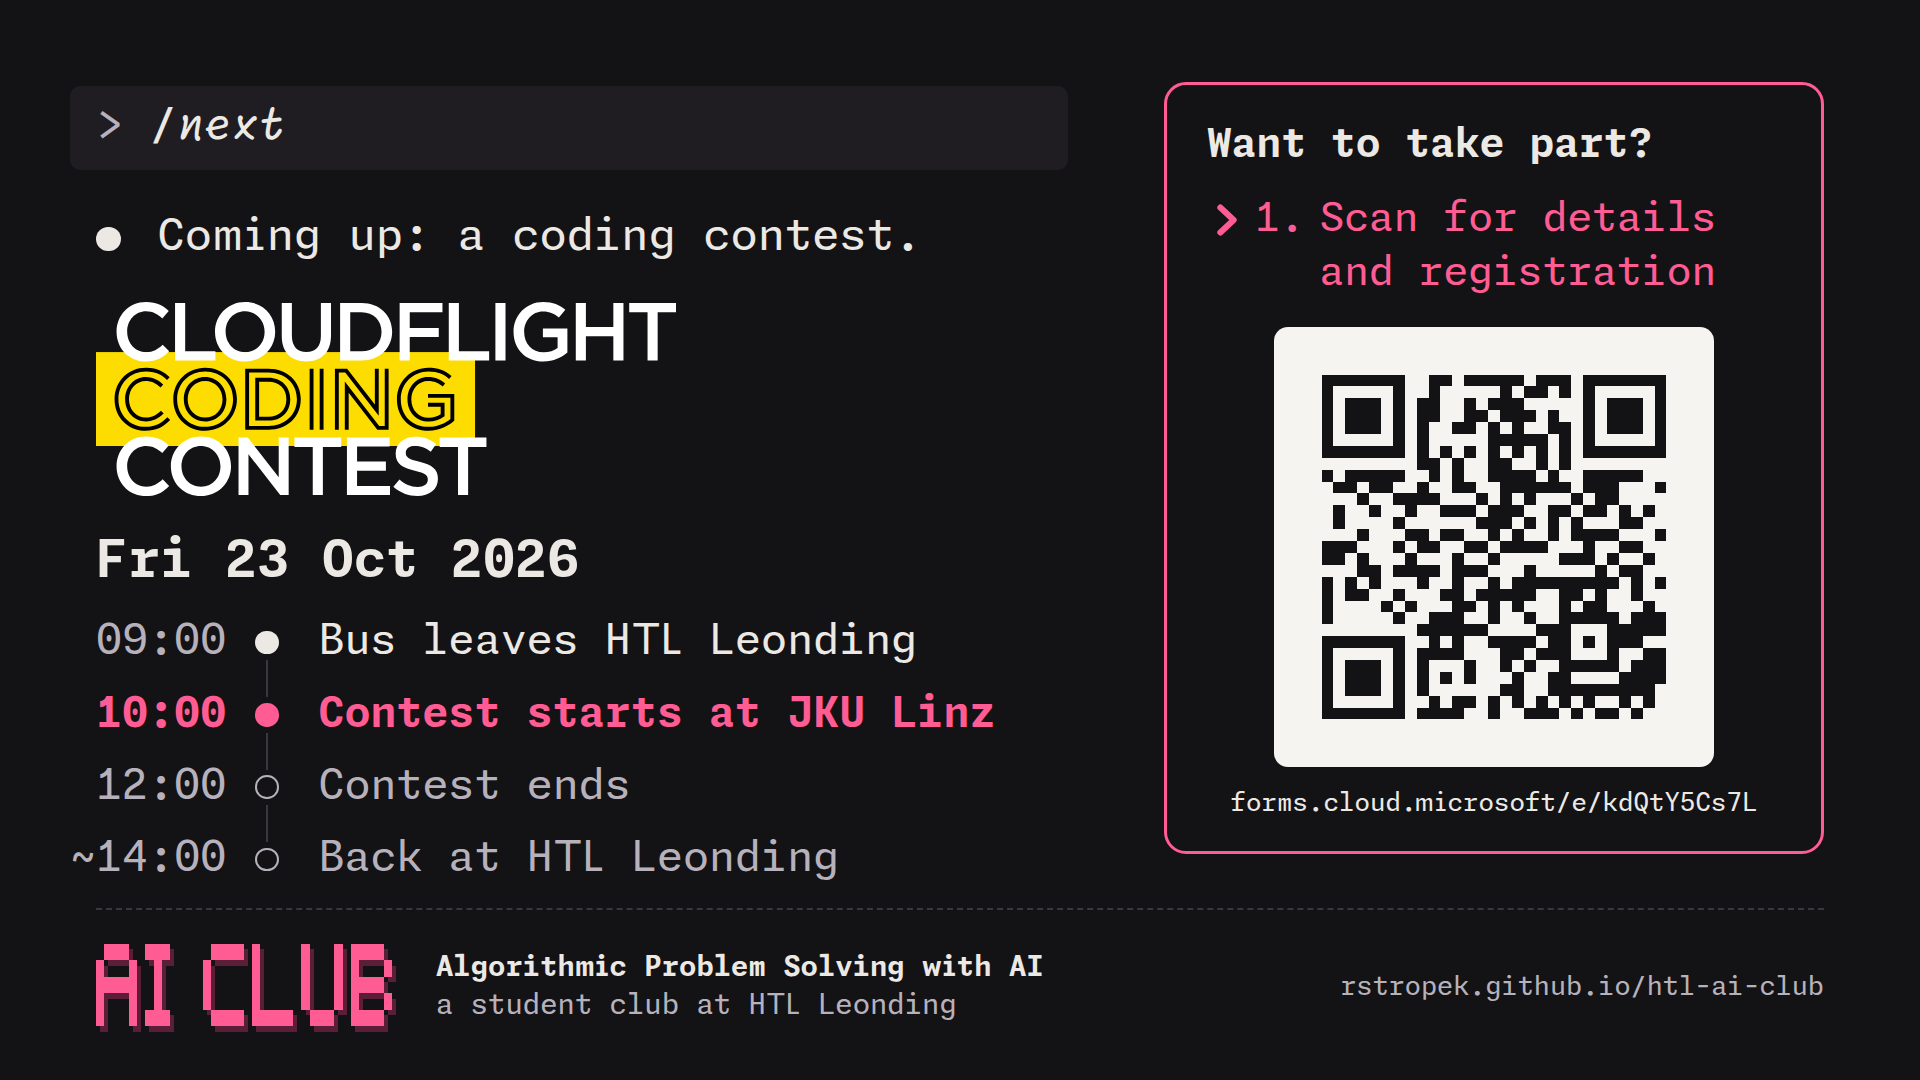
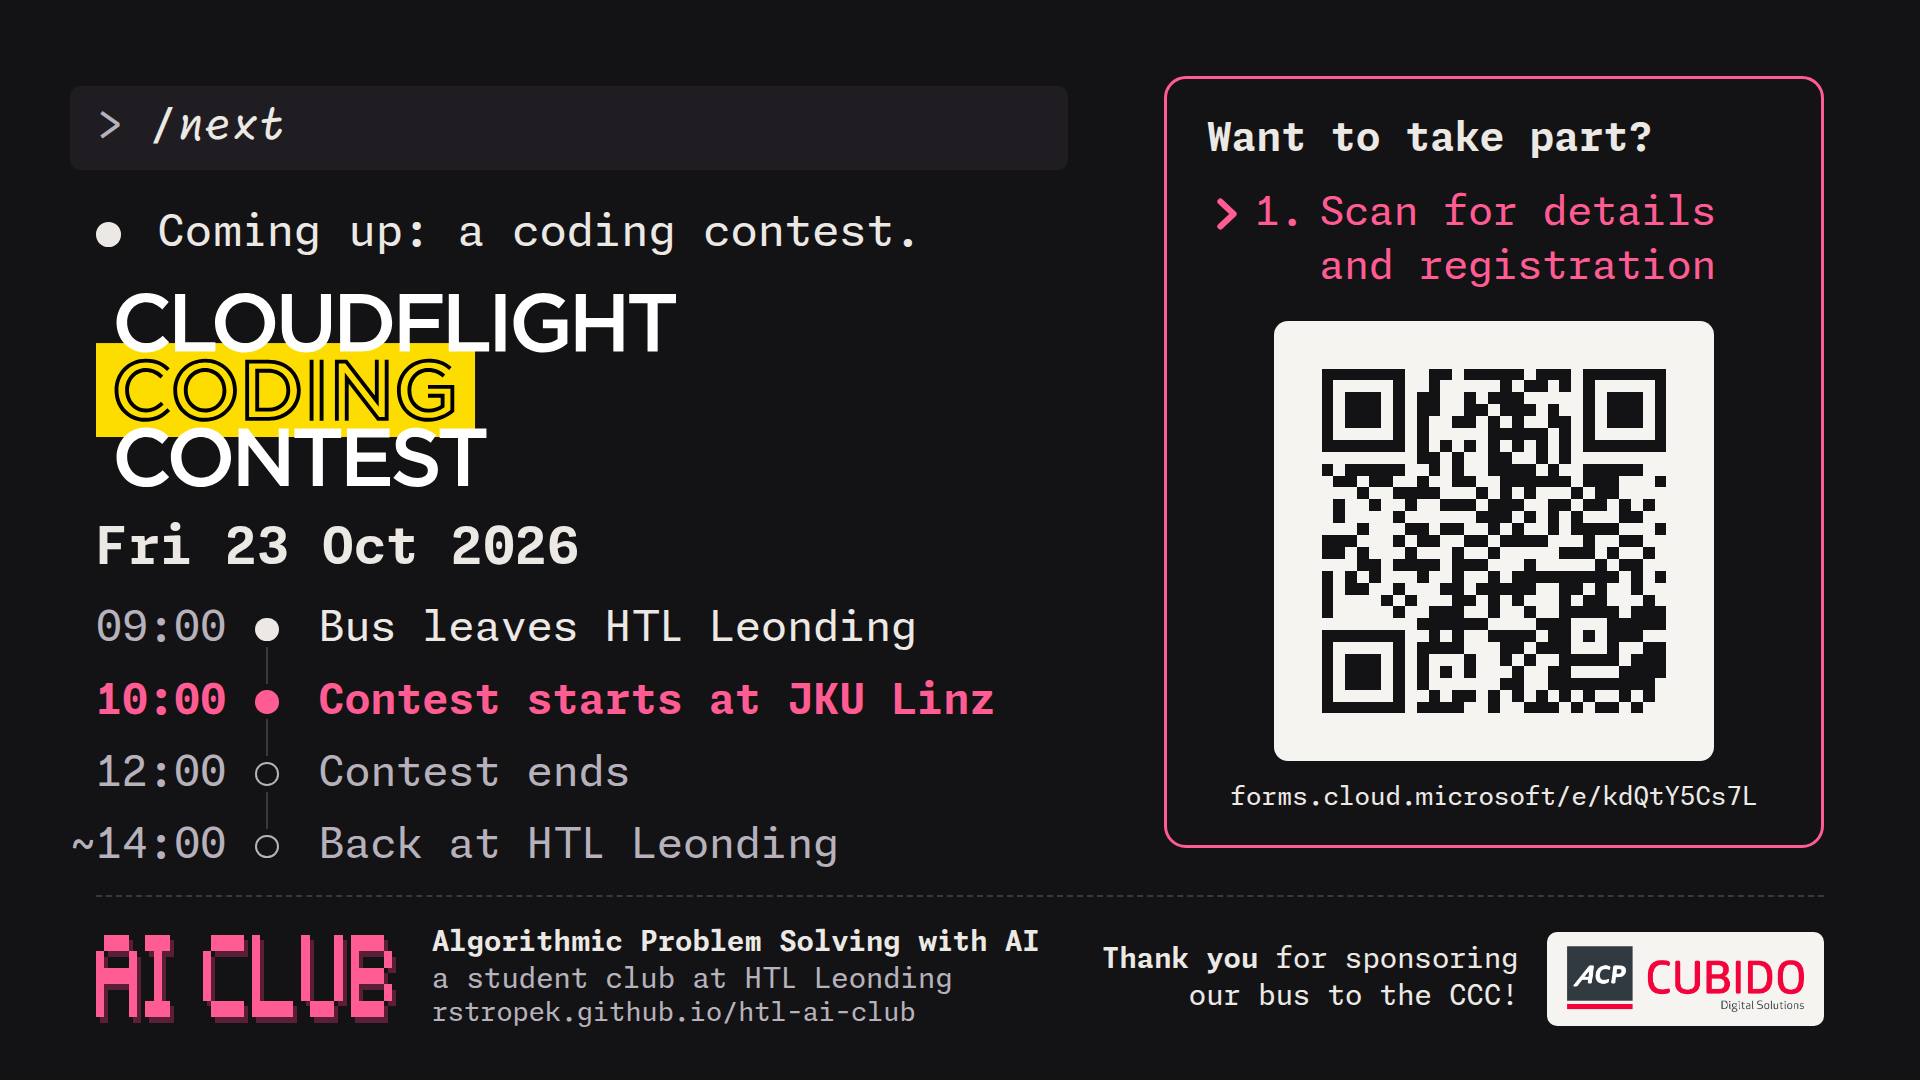
Thank the bus sponsor on the CCC promo image
ACP CUBIDO (www.cubido.at) sponsors the bus to the contest. The promo's
status line now thanks them next to their logo, taken from the header of
their website. The logo is made for a white ground, so it sits on the
same light tile as the QR code instead of being recoloured. The club URL
moves under the club's name to make room.

PRODUCT.md records the sponsor; DESIGN.md notes the tile rule for
partner logos.

diff --git a/src/styles/promo.css b/src/styles/promo.css
@@ -36,11 +36,11 @@
 .p-msg {
   display: grid;
   grid-template-columns: 1.4em 1fr;
-  margin-top: 0.9em;
+  margin-top: 0.8em;
 }
 
 .p-logo {
-  margin: 0.75em 0 0.8em;
+  margin: 0.65em 0 0.7em;
   width: 580px;
   max-width: 100%;
 }
@@ -120,10 +120,11 @@
   display: grid;
   grid-template-columns: 300px minmax(0, 1fr) auto;
   align-items: center;
-  column-gap: 40px;
-  padding-top: 34px;
+  column-gap: 36px;
+  padding-top: 28px;
   border-top: 2px dashed var(--rule);
   font-size: 28px;
+  line-height: 1.3;
 }
 .p-banner .banner {
   display: block;
@@ -132,7 +133,30 @@
 }
 .p-sender {
   display: grid;
+  white-space: nowrap;
 }
 .p-site {
   font-size: 26px;
+}
+
+/* the bus sponsor, thanked in the status line; its logo needs a light ground, like the QR code */
+.p-sponsor {
+  display: flex;
+  align-items: center;
+  gap: 28px;
+}
+.p-thanks {
+  text-align: right;
+  white-space: nowrap;
+}
+.p-sponsor-tile {
+  display: block;
+  padding: 14px 20px;
+  border-radius: 10px;
+  background: #f6f4f1;
+}
+.p-sponsor-tile img {
+  display: block;
+  height: 66px;
+  width: auto;
 }

diff --git a/PRODUCT.md b/PRODUCT.md
@@ -37,7 +37,7 @@ A hands-on student club built around *algorithmic problem solving* with AI. It's
 - Session format: every session picks one topic (e.g. context management, tool calling, sandboxing), introduces it for beginners as a recap for semi-pros, dives into specific details for pros, and then tries it hands-on in an example.
 - Audience and attendance: open to all students and to external guests. Students who attend at least half of the sessions get their participation noted on their school report. Most meetings are hybrid, so members can also join from home.
 - Prerequisites: no own coding agent is required; students can use **Novedu**, the school's free coding agent.
-- Calendar: sessions every two to four weeks, usually Wednesdays 17:30–19:30 (6 in winter 26/27, 8 in summer 27). The first, on Fri 23 Oct 2026 10:00–12:00, is the CCC (Cloudflight Coding Contest) at JKU Linz: the bus leaves HTL Leonding at 09:00, the contest runs 10:00–12:00, and the group is back at about 14:00. Its own form (https://forms.cloud.microsoft/e/kdQtY5Cs7L) carries both details and registration; all other sessions are at HTL Leonding. The club currently announces only dates, times and places: no session topics, no rooms. Besides the homepage there is a Full HD CCC promo image for the entrance screen and a self-advancing kiosk loop (`/kiosk/`) for stands such as the Club Convention Day.
+- Calendar: sessions every two to four weeks, usually Wednesdays 17:30–19:30 (6 in winter 26/27, 8 in summer 27). The first, on Fri 23 Oct 2026 10:00–12:00, is the CCC (Cloudflight Coding Contest) at JKU Linz: the bus leaves HTL Leonding at 09:00, the contest runs 10:00–12:00, and the group is back at about 14:00. The bus is sponsored by ACP CUBIDO Digital Solutions (www.cubido.at), thanked with their logo on the promo image. Its own form (https://forms.cloud.microsoft/e/kdQtY5Cs7L) carries both details and registration; all other sessions are at HTL Leonding. The club currently announces only dates, times and places: no session topics, no rooms. Besides the homepage there is a Full HD CCC promo image for the entrance screen and a self-advancing kiosk loop (`/kiosk/`) for stands such as the Club Convention Day.
 - Joining happens through external **Microsoft Forms**; the site links out and does not handle sign-ups itself. Students: https://forms.cloud.microsoft/e/MEzuhSPX4C (also as a QR code). External guests: https://forms.cloud.microsoft/e/Dy4hPbj15k.
 - Sessions are recurring club meetings: learning, hands-on practice, and discussion of current AI developments.
 

diff --git a/DESIGN.md b/DESIGN.md
@@ -238,7 +238,7 @@ A line the human typed: a prompt-wash band with 4px corners, pulled out by 1ch o
 A dot in the gutter, body to the right. Agent messages use an ink dot; finished tool calls use the green dot and a bold tool name with a dim path in parentheses. Results hang under an elbow glyph, first line dim. Lists use a dim `-` (pitch) or `·` (agenda) in a 2ch marker column.
 
 ### Session checklist (signature)
-The sign-up QR code sits in the join prompt's right column on screens 44rem and wider, hidden on phones (the visitor already holds the link). It is drawn like the banner, as square terminal cells, but always near-black cells on a light tile in both themes, because scanners need luminance contrast; pink-on-black is never used for a code. A dim "scan to sign up" caption sits under it. The same code ships as `/qr-signup.svg` for print.
+The sign-up QR code sits in the join prompt's right column on screens 44rem and wider, hidden on phones (the visitor already holds the link). It is drawn like the banner, as square terminal cells, but always near-black cells on a light tile in both themes, because scanners need luminance contrast; pink-on-black is never used for a code. A partner logo made for a white ground (the bus sponsor's, in the promo's status line) sits on the same light tile rather than being recoloured. A dim "scan to sign up" caption sits under it. The same code ships as `/qr-signup.svg` for print.
 
 The session plan is an `Update Todos` tool call: a dim caption ("How every session runs") and empty checkboxes in the shared 2.4ch column, one step per line. Same checkbox glyph as the session list, never ticked, because it is a plan rather than progress.
 
